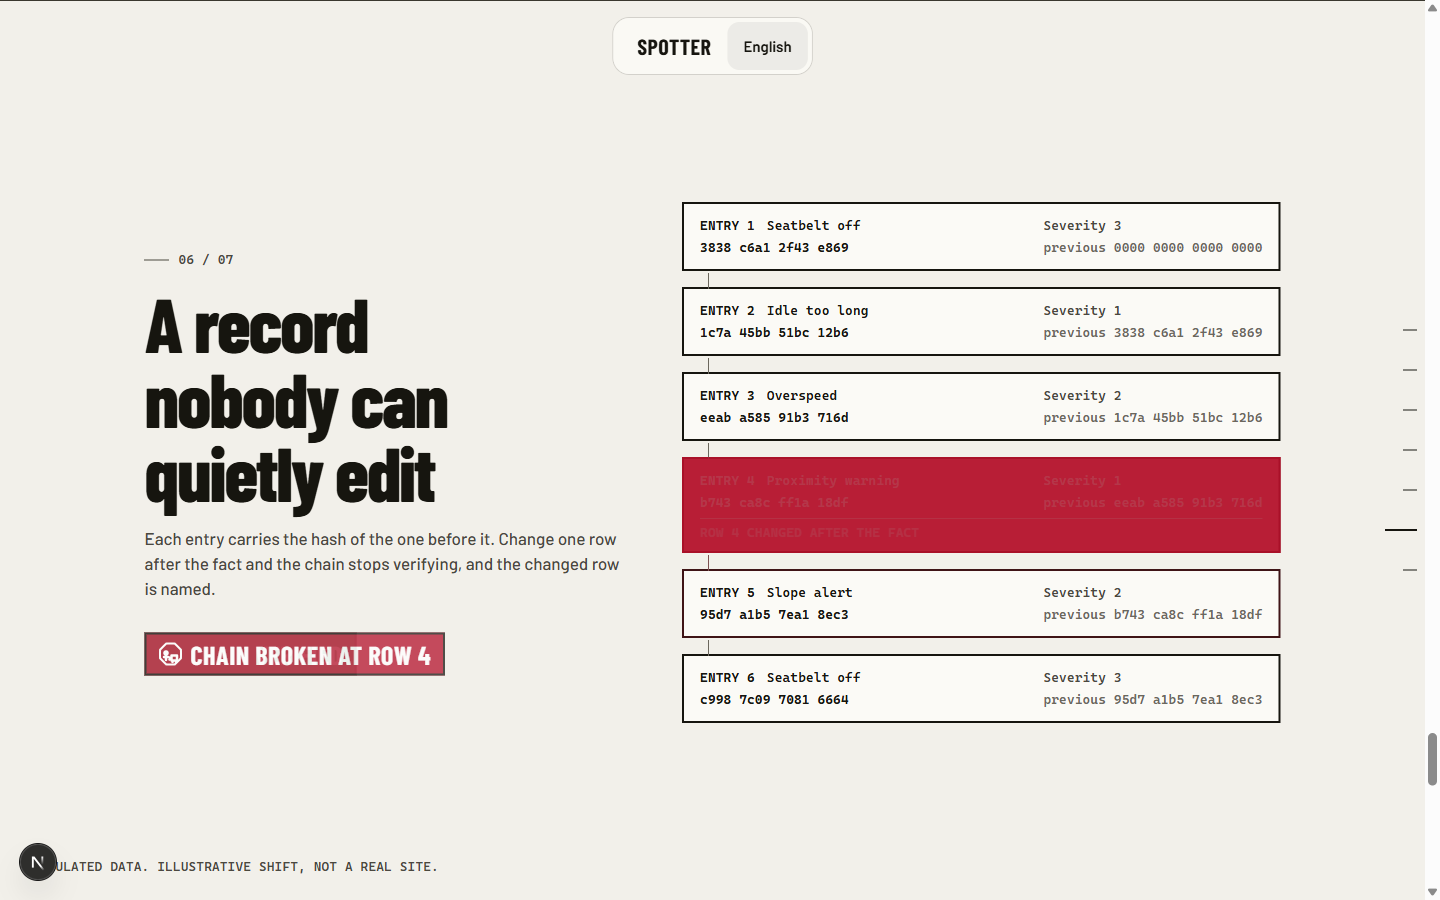
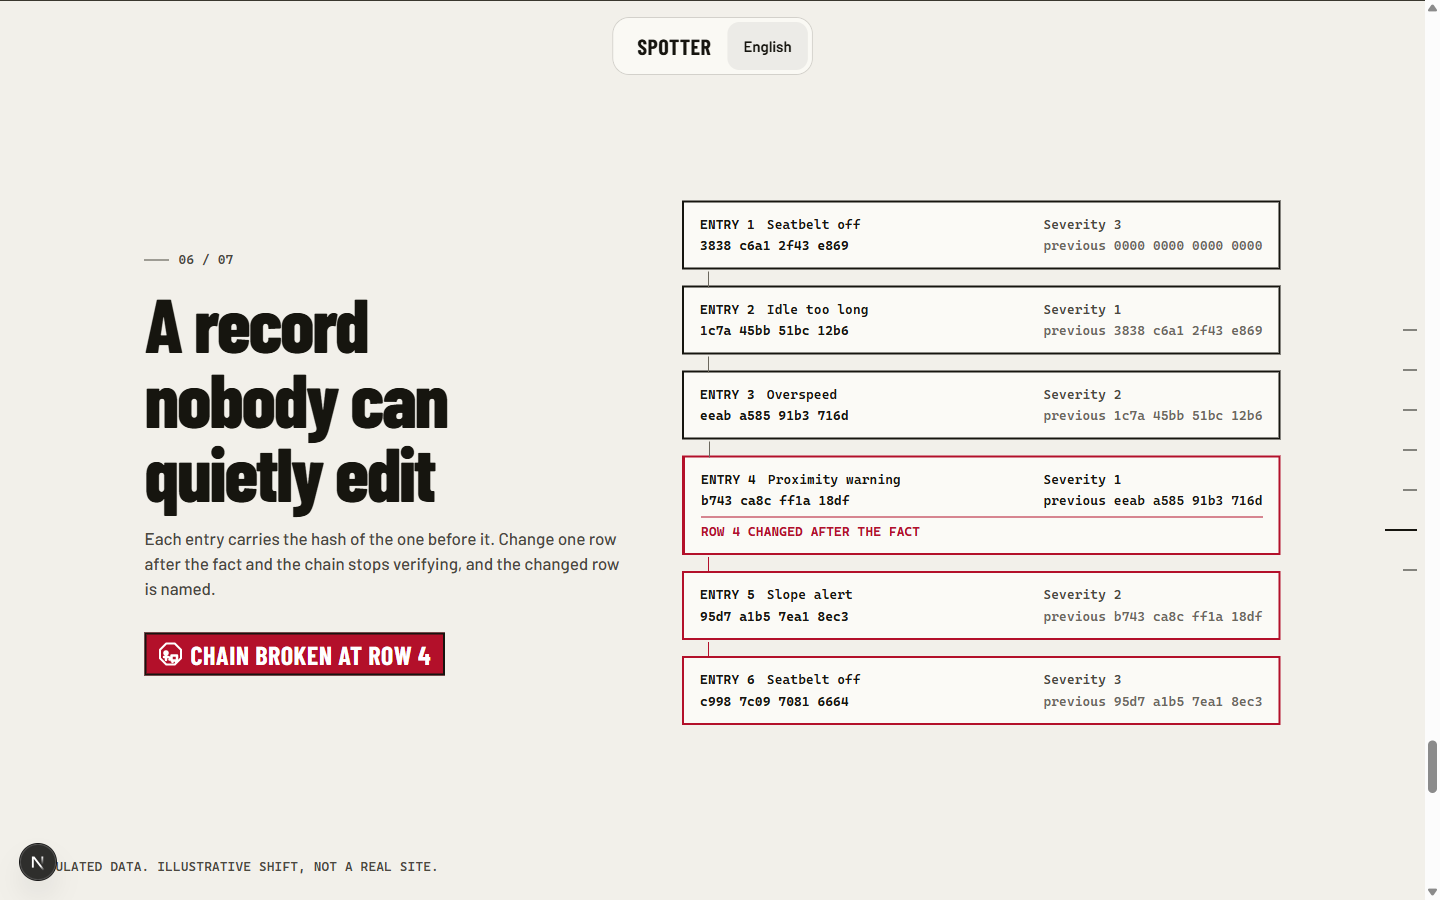
fix(landing): tampered row settles on paper with critical plate, clean chip crossfade

Changed region(s): [[0.4688, 0.2178, 0.9062, 0.8089], [0.0938, 0.6844, 0.3125, 0.7778]]

diff --git a/apps/web/src/styles/landing.css b/apps/web/src/styles/landing.css
@@ -655,12 +655,13 @@
   justify-self: start;
 }
 
+/* Clean crossfade in one grid cell: "verified" leaves in the first half, "broken" arrives in the second. */
 .st-ok {
-  opacity: calc(1 - var(--e));
+  opacity: clamp(0, calc(1 - var(--e) * 2), 1);
 }
 
 .st-bad {
-  opacity: var(--e);
+  opacity: clamp(0, calc(var(--e) * 2 - 1), 1);
 }
 
 .l-ledger {
@@ -698,8 +699,9 @@
   content: "";
   position: absolute;
   inset: calc(var(--bw) * -1);
+  z-index: -1;
   background: var(--state-critical);
-  opacity: calc(4 * var(--et) * (1 - var(--et)));
+  opacity: var(--ov);
   pointer-events: none;
 }
 
@@ -762,9 +764,18 @@
   border-color: color-mix(in srgb, var(--ink) calc((1 - var(--et)) * 100%), var(--state-critical));
 }
 
+/* Flash: red fill with light text (--on-frame on critical is above 6:1) while --ov is high, then the
+   row settles on paper: ink text, a 3 px critical left plate, critical border, critical flag line. */
 .lrow-tamper {
-  background: color-mix(in srgb, var(--surface) calc((1 - var(--et)) * 100%), var(--state-critical));
-  color: color-mix(in srgb, var(--ink) calc((1 - var(--et)) * 100%), var(--on-frame));
+  --ov: clamp(0, calc(12 * var(--et) * (1 - var(--et))), 1);
+  --fx: clamp(0, calc((var(--ov) - 0.4) * 10), 1);
+  isolation: isolate;
+  border-left-width: calc(2px + var(--et) * 1px);
+  color: color-mix(in srgb, var(--on-frame) calc(var(--fx) * 100%), var(--ink));
+}
+
+.lrow-tamper .lrow-flag {
+  color: color-mix(in srgb, var(--on-frame) calc(var(--fx) * 100%), var(--state-critical));
 }
 
 .lrow-tamper .lrow-sev,
